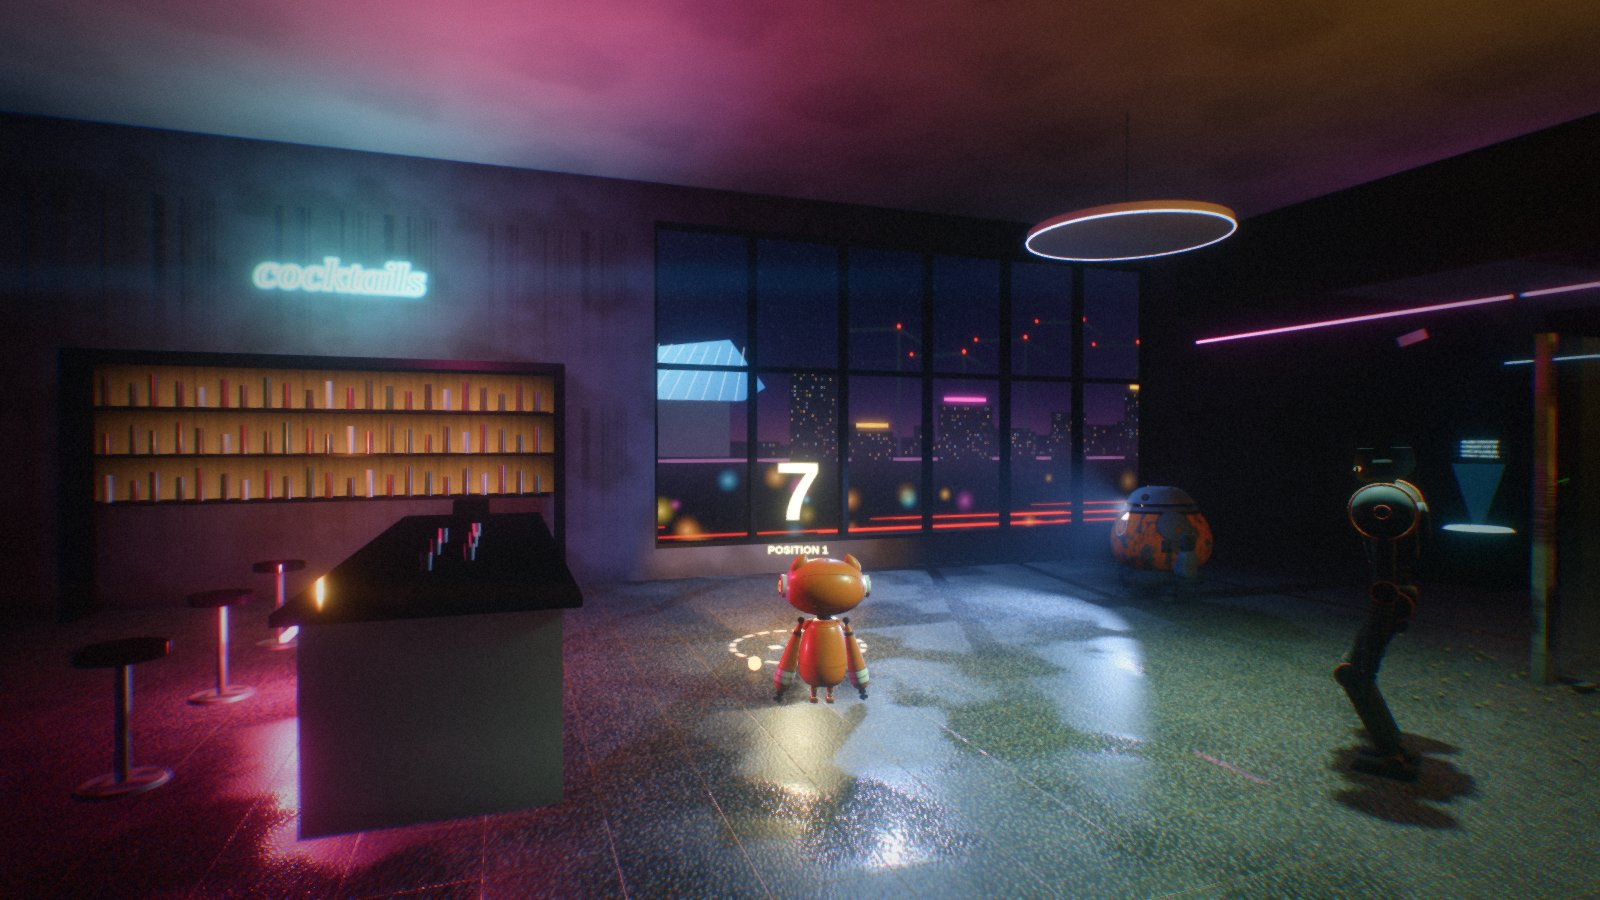
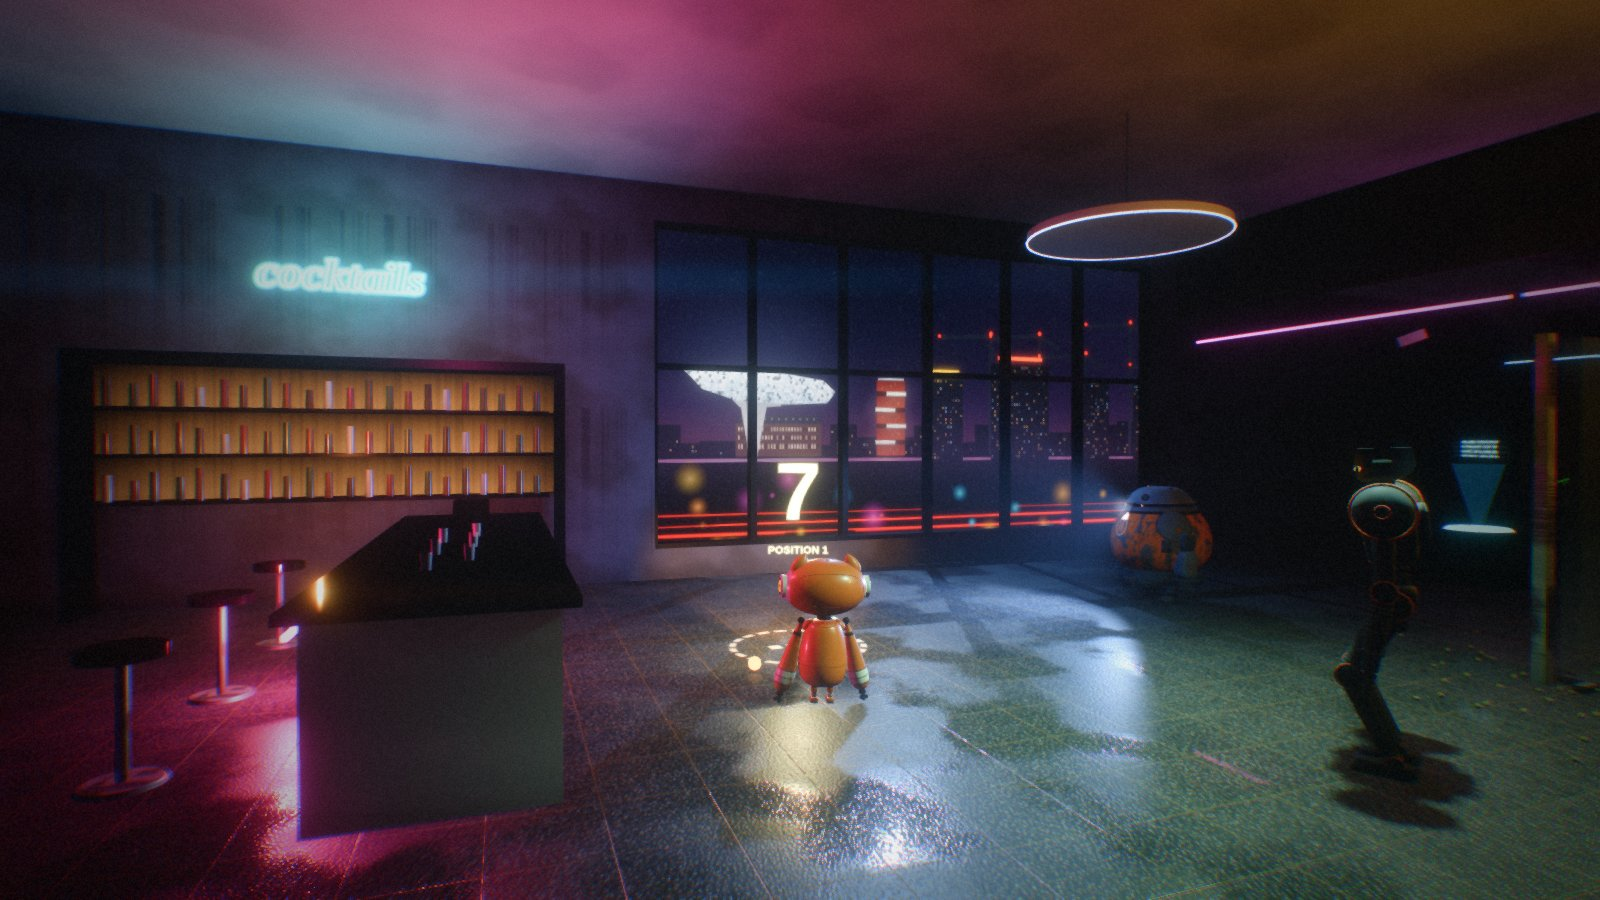
fix(3d): steady lights, Port House and MAS in the night view
- Failing-tube flicker is a rare short stutter instead of a constant
  fast blink.
- The light pool and the fog's light list fade lights out near their
  size cut instead of dropping them in one frame (walking popped).
- Skyline: the Port House and MAS, drawn from Michele's photos and
  scaled as distant landmarks, framed in the foyer window.

Claude-Session: https://claude.ai/code/session_0139bPQ2FapXv5hwBf7exBtT

Changed region(s): [[0.4062, 0.3422, 0.7188, 0.6222]]

diff --git a/src/render3d/signs.ts b/src/render3d/signs.ts
@@ -479,34 +479,184 @@ export function cityscape(): THREE.CanvasTexture {
     x.fillStyle = '#6b3f1c';
     x.fillRect(sx + 46, base - 130, 260, 130);
   }
-  // Havenhuis: a faceted glass diamond on an old stone block.
+  // Havenhuis (Zaha Hadid's Port House), from Michele's night photo: a long
+  // faceted glass ship, bow pointing west, lit white from inside behind a
+  // triangular diagrid, carried on a white concrete pedestal over the old
+  // brick fire station with its slate roof and rows of lit windows.
   {
-    const hx = W * 0.62;
+    const hx = W * 0.665;
     const base = HZ;
-    x.fillStyle = '#2a2c34';
-    x.fillRect(hx - 90, base - 120, 180, 120);
-    const pts: Array<[number, number]> = [[-150, -120], [-60, -230], [90, -250], [170, -150], [120, -120]];
+    // Drawn at full size about its foot, then scaled: both landmarks are a
+    // couple of kilometres off, and at full size they filled the window.
+    x.save();
+    x.translate(hx * 0.52, base * 0.52);
+    x.scale(0.48, 0.48);
+    // The fire station.
+    const fx0 = hx - 170;
+    const fx1 = hx + 240;
+    const fTop = base - 150;
+    x.fillStyle = '#3a2620';
+    x.fillRect(fx0, fTop, fx1 - fx0, 150);
+    x.fillStyle = '#1a1a20';
     x.beginPath();
-    x.moveTo(hx + pts[0][0], base + pts[0][1]);
-    for (const [px, py] of pts.slice(1)) x.lineTo(hx + px, base + py);
-    x.closePath();
-    const dg = x.createLinearGradient(hx - 150, base - 250, hx + 170, base - 120);
-    dg.addColorStop(0, '#7fd8ff');
-    dg.addColorStop(1, '#2a6aa8');
-    x.fillStyle = dg;
+    x.moveTo(fx0 - 6, fTop);
+    x.lineTo(fx0 + 20, fTop - 38);
+    x.lineTo(fx1 - 20, fTop - 38);
+    x.lineTo(fx1 + 6, fTop);
     x.fill();
-    x.strokeStyle = 'rgba(210,245,255,0.8)';
-    x.lineWidth = 2;
-    for (let k = 0; k < 9; k++) {
+    for (let d = fx0 + 30; d < fx1 - 30; d += 34) {
+      x.fillStyle = 'rgba(255,220,160,0.35)';
+      x.fillRect(d, fTop - 26, 8, 10);
+    }
+    for (let row = 0; row < 3; row++) {
+      for (let wx = fx0 + 12; wx < fx1 - 12; wx += 14) {
+        x.fillStyle = rnd() > 0.25 ? `rgba(255,${225 + rnd() * 30},${190 + rnd() * 40},${0.55 + rnd() * 0.4})` : 'rgba(30,20,20,0.9)';
+        x.fillRect(wx, fTop + 18 + row * 38, 6, row === 2 ? 22 : 16);
+      }
+    }
+    // Pedestal: a slanted white leg and the bridge that carries the ship.
+    const ped = x.createLinearGradient(hx - 120, base, hx - 20, base - 240);
+    ped.addColorStop(0, '#f2f4f2');
+    ped.addColorStop(1, '#9aa4a8');
+    x.fillStyle = ped;
+    x.beginPath();
+    x.moveTo(hx - 150, base - 250);
+    x.lineTo(hx - 20, base - 250);
+    x.lineTo(hx - 70, base);
+    x.lineTo(hx - 105, base);
+    x.closePath();
+    x.fill();
+    x.beginPath();
+    x.moveTo(hx - 190, base - 262);
+    x.lineTo(hx + 60, base - 262);
+    x.lineTo(hx + 40, base - 228);
+    x.lineTo(hx - 150, base - 222);
+    x.closePath();
+    x.fill();
+    // The ship.
+    const ship: Array<[number, number]> = [[-420, -400], [-200, -392], [60, -378], [250, -350], [310, -300], [270, -246], [60, -238], [-160, -250], [-320, -300]];
+    x.save();
+    x.beginPath();
+    ship.forEach(([px, py], i) => (i ? x.lineTo(hx + px, base + py) : x.moveTo(hx + px, base + py)));
+    x.closePath();
+    const sg = x.createLinearGradient(0, base - 392, 0, base - 250);
+    sg.addColorStop(0, '#f4fbff');
+    sg.addColorStop(1, '#8fb2c0');
+    x.fillStyle = sg;
+    x.fill();
+    x.clip();
+    // Diagrid: rows of triangles, some glazing dark, most lit.
+    const cell = 18;
+    for (let ry = base - 400; ry < base - 240; ry += cell) {
+      for (let rx = hx - 430; rx < hx + 310; rx += cell) {
+        for (const up of [0, 1]) {
+          const lit = rnd();
+          x.fillStyle = lit > 0.82 ? 'rgba(20,34,48,0.75)' : lit > 0.45 ? 'rgba(255,255,255,0.55)' : 'rgba(170,215,235,0.35)';
+          x.beginPath();
+          if (up) {
+            x.moveTo(rx, ry + cell);
+            x.lineTo(rx + cell / 2, ry);
+            x.lineTo(rx + cell, ry + cell);
+          } else {
+            x.moveTo(rx + cell / 2, ry);
+            x.lineTo(rx + cell * 1.5, ry);
+            x.lineTo(rx + cell, ry + cell);
+          }
+          x.fill();
+        }
+      }
+    }
+    x.strokeStyle = 'rgba(235,245,250,0.9)';
+    x.lineWidth = 1.5;
+    for (let k = -40; k < 60; k++) {
       x.beginPath();
-      x.moveTo(hx - 150 + k * 36, base - 120);
-      x.lineTo(hx - 60 + k * 26, base - 235);
+      x.moveTo(hx - 440 + k * cell, base - 240);
+      x.lineTo(hx - 440 + k * cell + 160 * 0.577, base - 400);
+      x.moveTo(hx - 440 + k * cell, base - 240);
+      x.lineTo(hx - 440 + k * cell - 160 * 0.577, base - 400);
       x.stroke();
     }
+    // Floor plates show as brighter bands through the glass.
+    for (let f = 0; f < 5; f++) {
+      x.fillStyle = 'rgba(255,255,255,0.25)';
+      x.fillRect(hx - 430, base - 372 + f * 24, 740, 3);
+    }
+    x.restore();
+    const halo = x.createRadialGradient(hx - 60, base - 320, 0, hx - 60, base - 320, 520);
+    halo.addColorStop(0, 'rgba(200,235,255,0.16)');
+    halo.addColorStop(1, 'rgba(200,235,255,0)');
+    x.fillStyle = halo;
+    x.fillRect(hx - 600, base - 860, 1100, 1000);
+    x.restore();
+  }
+  // MAS (Museum aan de Stroom): stacked boxes of red Indian sandstone, each
+  // turned a quarter on the one below, with a wavy glass gallery wrapping the
+  // corner between them, lit warm from inside.
+  {
+    const mx = W * 0.735;
+    const base = HZ;
+    x.save();
+    x.translate(mx * 0.58, base * 0.58);
+    x.scale(0.42, 0.42);
+    const w = 170;
+    const lvl = 5;
+    const boxH = 62;
+    const glassH = 26;
+    let y = base;
+    for (let k = 0; k < lvl; k++) {
+      // Stone box.
+      const top = y - boxH;
+      const stone = x.createLinearGradient(0, top, 0, y);
+      stone.addColorStop(0, '#5e2016');
+      stone.addColorStop(1, '#8a3222');
+      x.fillStyle = stone;
+      x.fillRect(mx - w / 2, top, w, boxH);
+      for (let i = 0; i < 90; i++) {
+        x.fillStyle = `rgba(${rnd() > 0.5 ? '30,8,4' : '160,70,50'},${0.15 + rnd() * 0.2})`;
+        x.fillRect(mx - w / 2 + rnd() * w, top + rnd() * boxH, 2 + rnd() * 5, 1 + rnd() * 2);
+      }
+      // A few narrow slit windows in the stone.
+      for (let i = 0; i < 3; i++) {
+        x.fillStyle = 'rgba(255,200,140,0.5)';
+        x.fillRect(mx - w / 2 + 20 + rnd() * (w - 40), top + 12 + rnd() * 30, 3, 10);
+      }
+      y = top;
+      if (k === lvl - 1) break;
+      // Glass gallery: the full width on one side, the stone overhanging on the other.
+      const gTop = y - glassH;
+      const left = k % 2 === 0;
+      const gx0 = left ? mx - w / 2 - 6 : mx - w / 2 + w * 0.35;
+      const gw = w * 0.65 + 6;
+      const gl = x.createLinearGradient(0, gTop, 0, y);
+      gl.addColorStop(0, '#fff4dc');
+      gl.addColorStop(1, '#c9e4f0');
+      x.fillStyle = '#2a0f0a';
+      x.fillRect(mx - w / 2, gTop, w, glassH);
+      x.fillStyle = gl;
+      x.fillRect(gx0, gTop + 2, gw, glassH - 4);
+      x.strokeStyle = 'rgba(80,120,140,0.6)';
+      x.lineWidth = 1;
+      for (let i = 0; i < gw; i += 7) {
+        x.beginPath();
+        x.moveTo(gx0 + i, gTop + 2);
+        x.lineTo(gx0 + i + 2 * Math.sin(i * 0.4), y - 2);
+        x.stroke();
+      }
+      const gg = x.createRadialGradient(gx0 + gw / 2, gTop + glassH / 2, 0, gx0 + gw / 2, gTop + glassH / 2, 140);
+      gg.addColorStop(0, 'rgba(255,230,190,0.18)');
+      gg.addColorStop(1, 'rgba(255,230,190,0)');
+      x.fillStyle = gg;
+      x.fillRect(gx0 - 140, gTop - 140, gw + 280, 300);
+      y = gTop;
+    }
+    // Roof terrace glass.
+    x.fillStyle = 'rgba(210,235,245,0.8)';
+    x.fillRect(mx - w / 2 + 8, y - 10, w - 16, 10);
+    x.restore();
   }
   // Port cranes, far right, with red aviation lights.
   for (let k = 0; k < 6; k++) {
-    const cx = W * (0.74 + k * 0.042);
+    const cx = W * (0.8 + k * 0.034);
     const base = HZ;
     const h = 220 + rnd() * 120;
     x.strokeStyle = '#1a1c24';
@@ -531,7 +681,8 @@ export function cityscape(): THREE.CanvasTexture {
   for (let bx = 60; bx < W; ) {
     const w = 60 + rnd() * 110;
     const h = 60 + rnd() * 200;
-    if (Math.abs(bx - W * 0.3) > 120 && Math.abs(bx - W * 0.62) > 200) {
+    const clear = (c: number, half: number): boolean => bx + w < c - half || bx > c + half;
+    if (clear(W * 0.3, 60) && clear(W * 0.665 - 40, 200) && clear(W * 0.735, 45)) {
       block(bx, w, h, 13, 0.18, HZ + 10);
       if (rnd() > 0.78) {
         const hue = [320, 190, 45, 12][Math.floor(rnd() * 4)];

diff --git a/src/render3d/pipeline.ts b/src/render3d/pipeline.ts
@@ -468,6 +468,14 @@ export class Pipeline {
     let n = 0;
     let slot = 0;
     const maps = [null, null, null, null] as Array<THREE.Texture | null>;
+    // The lists arrive sorted by distance and are cut at a fixed size; fade
+    // each light out as it nears the cut, so a light dropping off the list
+    // does not pop the haze (seen as flicker while walking, 24 Sep).
+    const eye = this.camera.position;
+    const cutAt = (list: Array<{ p: THREE.Vector3 }>, max: number): number => (list.length > max ? list[max].p.distanceTo(eye) : Infinity);
+    const spotCut = cutAt(this.spots.map((s) => ({ p: s.light.getWorldPosition(new THREE.Vector3()) })), MAX_SPOTS);
+    const ptCut = cutAt(this.points.map((q) => ({ p: q.position })), MAX_POINTS);
+    const near = (d: number, cut: number): number => 1 - THREE.MathUtils.smoothstep(d, cut - 4, cut);
     for (const s of this.spots) {
       if (n >= MAX_SPOTS) break;
       const L = s.light;
@@ -476,7 +484,7 @@ export class Pipeline {
       L.target.getWorldPosition(this._t);
       u.spotPos.value[n].copy(this._v);
       u.spotDir.value[n].subVectors(this._t, this._v).normalize();
-      this._c.copy(L.color).multiplyScalar(L.intensity * s.fog);
+      this._c.copy(L.color).multiplyScalar(L.intensity * s.fog * near(this._v.distanceTo(eye), spotCut));
       u.spotCol.value[n].set(this._c.r, this._c.g, this._c.b);
       let sl = -1;
       const depth = L.shadow.map?.depthTexture ?? null;
@@ -508,7 +516,8 @@ export class Pipeline {
     for (const pt of this.points) {
       if (p >= MAX_POINTS) break;
       u.ptPos.value[p].copy(pt.position);
-      u.ptCol.value[p].set(pt.color.r, pt.color.g, pt.color.b);
+      const w = near(pt.position.distanceTo(eye), ptCut);
+      u.ptCol.value[p].set(pt.color.r * w, pt.color.g * w, pt.color.b * w);
       u.ptRange.value[p] = pt.range;
       p++;
     }

diff --git a/src/render3d/venue.ts b/src/render3d/venue.ts
@@ -113,6 +113,17 @@ function quad(p0: THREE.Vector3, p1: THREE.Vector3, p2: THREE.Vector3, p3: THREE
 const V = (x: number, y: number, z: number): THREE.Vector3 => new THREE.Vector3(x, y, z);
 
 /**
+ * A failing tube: steady almost all the time, then a short stutter every
+ * twenty-odd seconds. The constant fast blink it replaced read as a render bug
+ * (playtest, 24 Sep), not as a bad ballast.
+ */
+function stutter(t: number, seed: number): number {
+  const window = Math.sin(t * 0.29 + seed * 1.7) * Math.sin(t * 0.113 + seed);
+  if (window < 0.88) return 1;
+  return Math.sin(t * 37 + seed) > 0.2 ? 0.35 : 1;
+}
+
+/**
  * A wall slab from the plan, as quads (no top, no bottom), each one given the
  * material of the space it faces. Long faces are classified in 10 px runs,
  * because one plan wall can face a corridor along one stretch and nothing at
@@ -848,8 +859,7 @@ export function buildVenue(mats: Materials, refl: PlanarReflection): Venue3D {
         if (seg % 5 === 1 && !dead) {
           const base = mat.color.clone();
           updaters.push((t) => {
-            const f = Math.sin(t * 31 + x0) * Math.sin(t * 5.3 + x0 * 2);
-            mat.color.copy(base).multiplyScalar(f > 0.6 ? 0.1 : 1);
+            mat.color.copy(base).multiplyScalar(stutter(t, x0));
           });
         }
       }
@@ -1100,9 +1110,7 @@ export function buildVenue(mats: Materials, refl: PlanarReflection): Venue3D {
   });
   updaters.push((t) => {
     for (const f2 of flickers) {
-      const n = Math.sin(t * 23 + f2.seed) * Math.sin(t * 7.3 + f2.seed * 2);
-      const off = n > 0.93 ? 0.15 : 1;
-      f2.mat.color.copy(f2.base).multiplyScalar(off);
+      f2.mat.color.copy(f2.base).multiplyScalar(stutter(t, f2.seed + 3));
     }
   });
 

diff --git a/src/render3d/lightpool.ts b/src/render3d/lightpool.ts
@@ -64,6 +64,10 @@ export class LightPool {
       if (d < this.fadeTo) sc.push({ v, d });
     }
     sc.sort((a, b) => a.d - b.d);
+    // Past the pool's size a light is dropped; fade toward that cut so the
+    // light that loses its slot is already dark (a hard cut popped visibly).
+    const n = this.slots.length;
+    const cut = sc.length > n ? sc[n].d : Infinity;
     for (let i = 0; i < this.slots.length; i++) {
       const s = this.slots[i];
       const e = sc[i];
@@ -72,7 +76,7 @@ export class LightPool {
         continue;
       }
       const src = e.v.src;
-      const fade = 1 - THREE.MathUtils.smoothstep(e.d, this.fadeFrom, this.fadeTo);
+      const fade = (1 - THREE.MathUtils.smoothstep(e.d, this.fadeFrom, this.fadeTo)) * (1 - THREE.MathUtils.smoothstep(e.d, cut - 5, cut));
       s.position.copy(e.v.pos);
       s.color.copy(src.color);
       s.intensity = src.intensity * fade;

diff --git a/docs/genai-notes.md b/docs/genai-notes.md
@@ -1662,3 +1662,16 @@ rounds were judged against the written checklist of Cyberpunk 2077's look again,
 **Rejected:** guessing at the flat, over-bright look with more grading before finding the cause.
 Two exposure passes (0.8, 0.62) barely moved it, because AgX compresses in log space. That was the
 hint that the scene itself was 2–3 stops too hot.
+
+**Third round, after Michele's look at version 7** ("better! still a bit offy and with some
+flickering light"; he asked for MAS and the Port House in the night view, with his own photos as
+reference):
+- Flicker had three sources. Two failing-tube effects blinked many times a second, all the time.
+  They now stay steady and stutter briefly every twenty-odd seconds. The light pool and the fog's
+  light list both cut at a fixed size, so a light losing its slot switched off in one frame. Both
+  now fade lights out as they approach the cut.
+- The window's skyline now has the Port House (glass ship with diagrid, white pedestal, the old
+  fire station under it) and MAS (red sandstone boxes, glass galleries swapping sides), both drawn
+  from his photos. They sit where they are from Kinepolis, south-west, and scaled as buildings
+  two kilometres off. At full size they filled the window.
+- "Offy" was not specific enough to act on beyond this, so it went back to him as a question.

diff --git a/docs/3d-poc.md b/docs/3d-poc.md
@@ -92,8 +92,8 @@ content, not pipeline.
 
 - **The closed section's floor is polished terrazzo**, not the Devoxx half's navy carpet: there is no
   photograph of the closed section, and the reflections carry most of the look. Cinemas keep carpet.
-- **The foyer's west wall is glazed** onto a night view of Antwerp (cathedral spire, Havenhuis,
-  port cranes, the Ring). Invented, for sense of place.
+- **The foyer's west wall is glazed** onto a night view of Antwerp (cathedral spire, the Port House
+  and MAS on the Eilandje, port cranes, the Ring). Invented, for sense of place.
 - **Emergency power**: cove LED lines, a few downlights, signage and holograms are on although the
   chapter says the power is out. The house lights are off; the rule the puzzle needs (clues only
   under the robots' lamps) is untouched, since the sim decides it.
